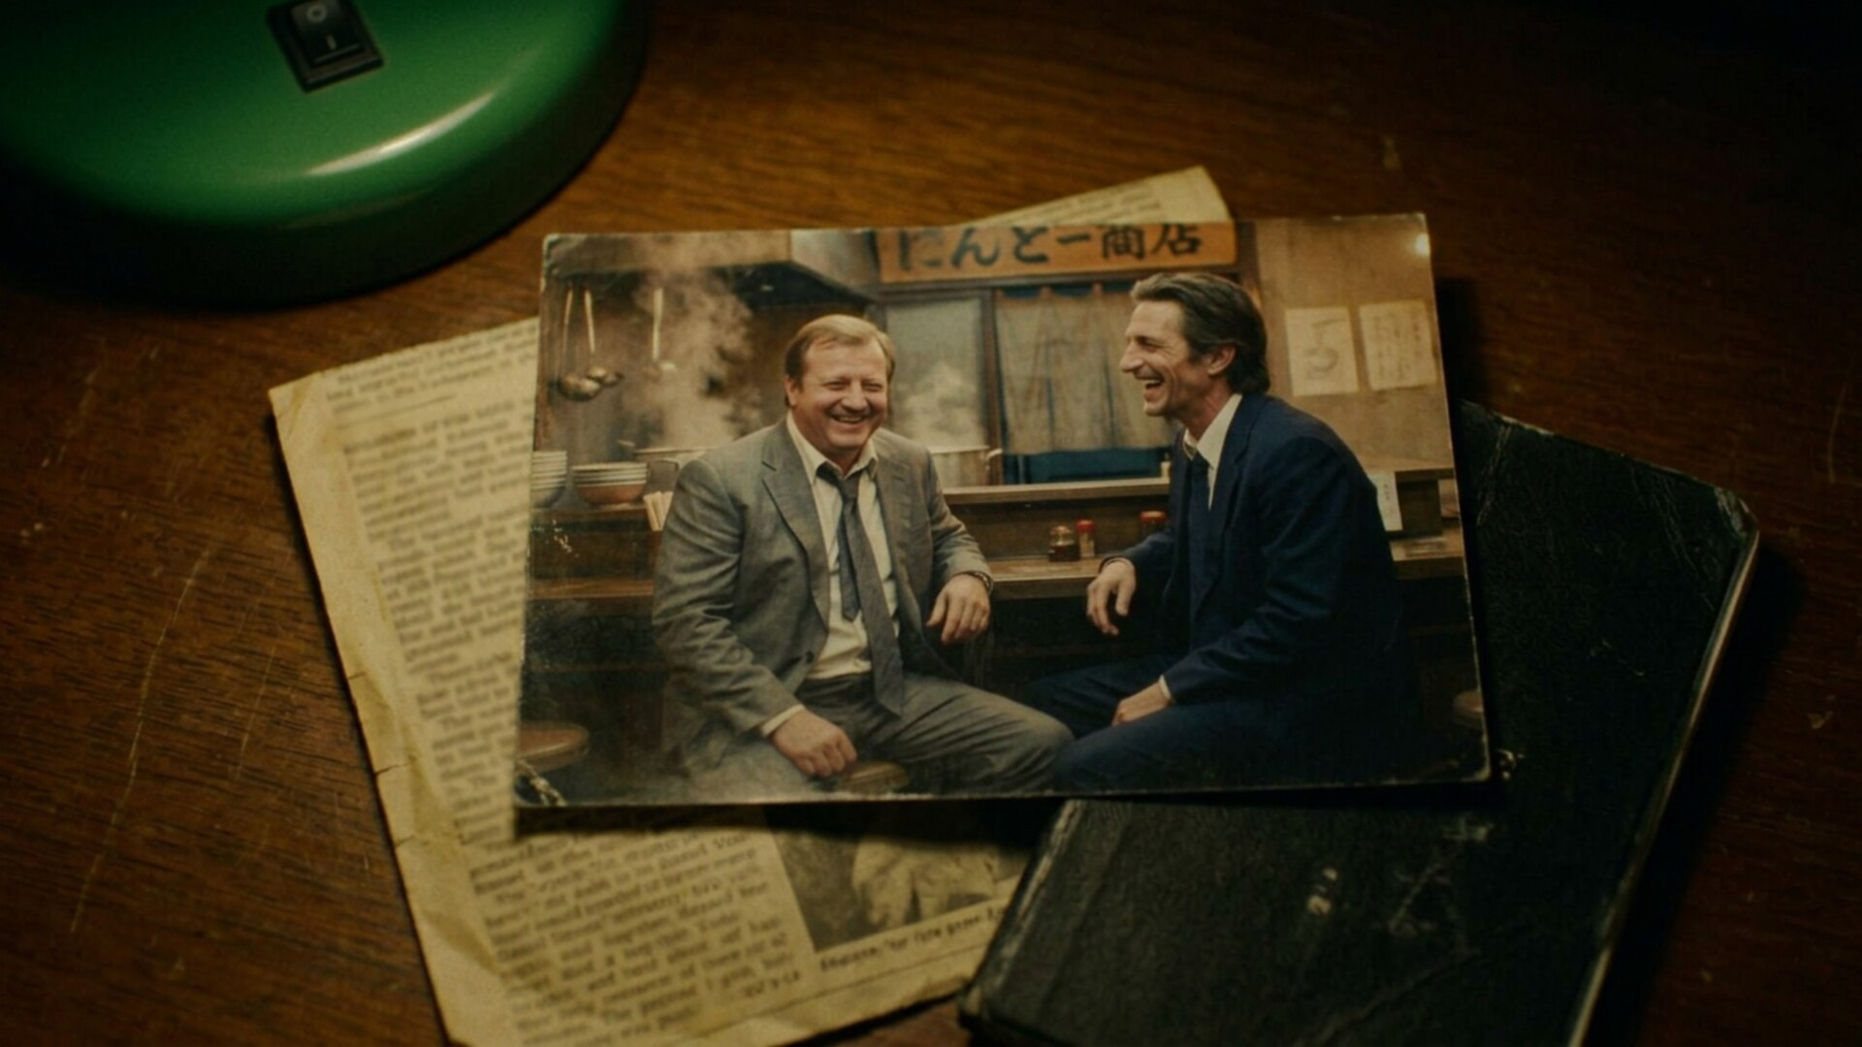
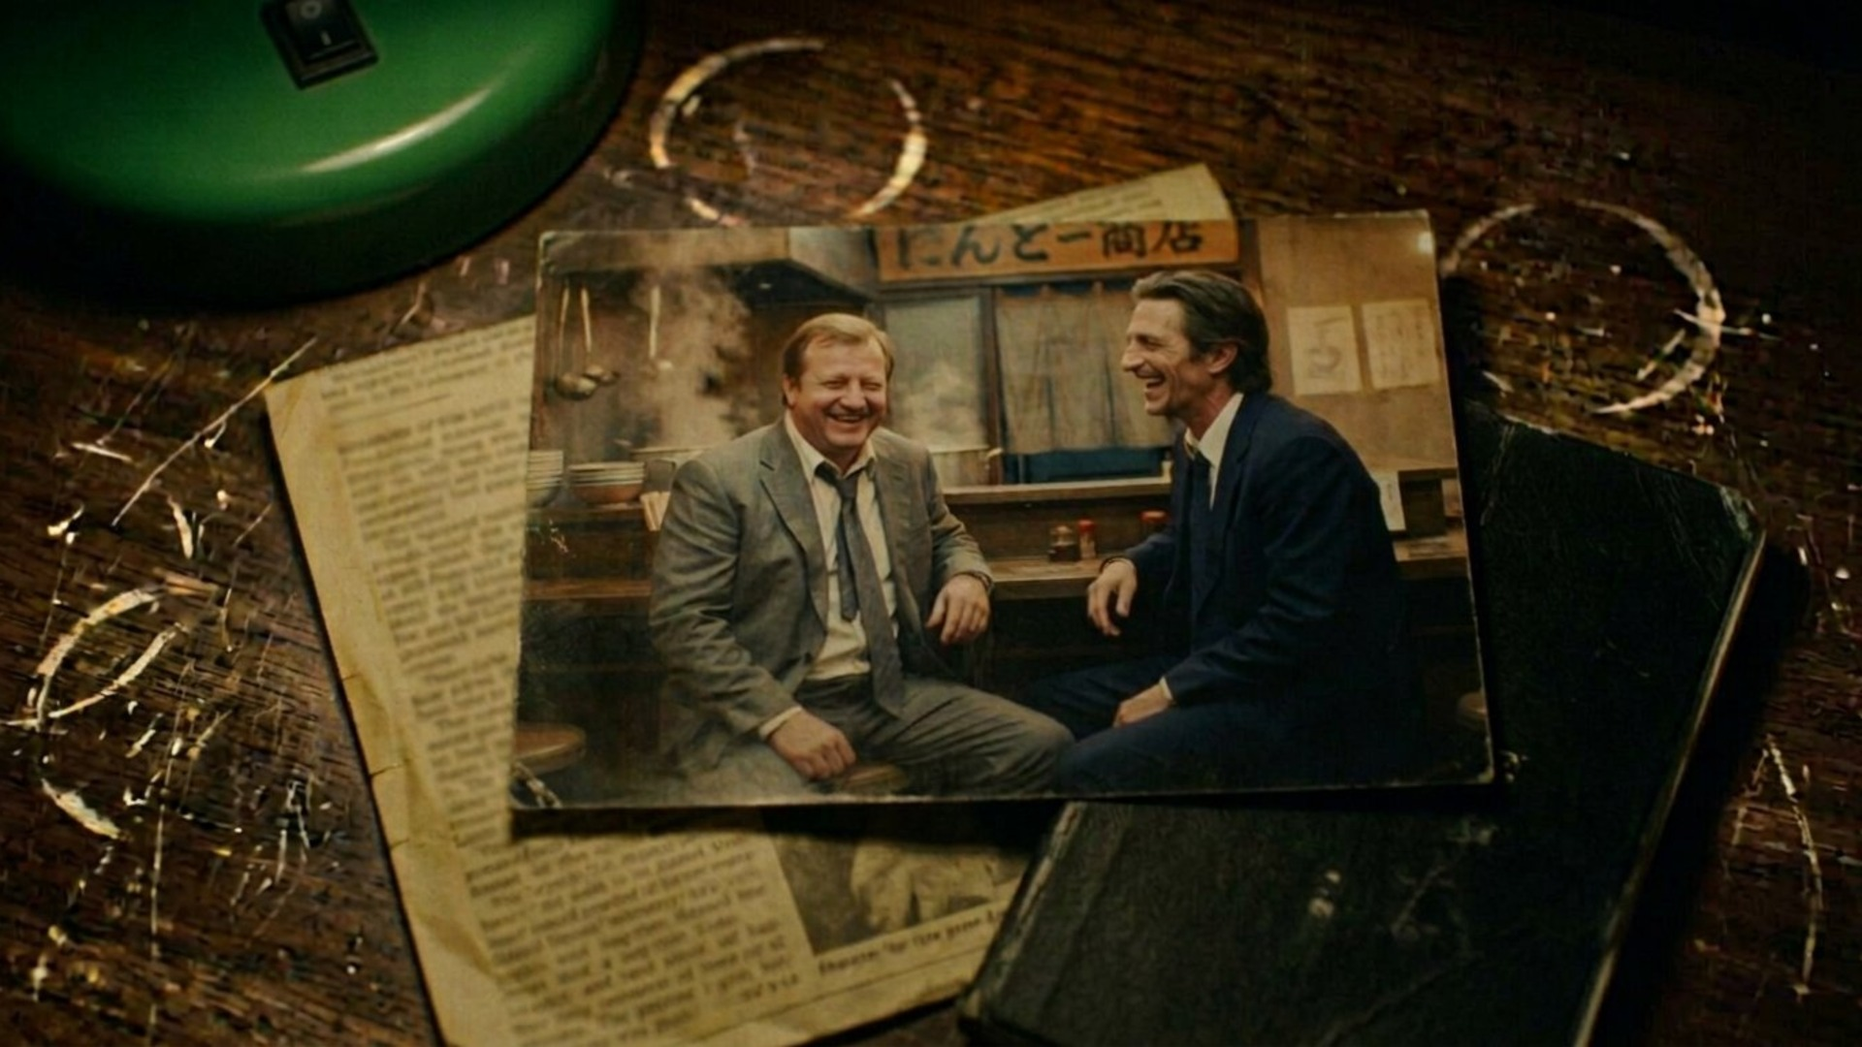
NEONOIRE: put the last two off-lock office frames on the wood, and audit what the guards cannot see
Every office check in verify-neonoire.mjs reads frame NOTES. A frame that was never queued never needed a note
changed, so its pixels were never re-examined -- which is how 'the queue is closed' came to mean something
narrower than 'the room is locked'. Auditing the five office frames the desk lock never retouched:

  s10/242 (10/244)  stairwell landing, no desk in frame          -- nothing to fix
  s21/193 (21/195)  stairwell and frosted door, no desk          -- nothing to fix
  s10/166 (10/168)  COMPLIANT: walnut top with cup rings, lamp at the left end, phone on the back edge
                    right of it, binders on the cupboard, CRT on its film at the right
  s11/244 (11/246)  OFF-LOCK: light honey-oak top, no ring marks -- retaken
  s11/167 (11/169)  OFF-LOCK: warm reddish wood, scratches instead of rings  -- retaken

Two calls, wood only, both frames edited rather than redrawn, because these two are a matched pair -- the
photograph in 169 lies on the clipping that IS the frame in 246, and 246's note has always said 'the black
notebook matches shot 169' -- and because 246 carries legible type: the headline and the DANIEL VOSS, 41 caption
were re-read at full size after the edit. Retaking one without the other would have moved the fault instead of
closing it.

Both are in officeLayoutRetakes now, so the guard that makes every rebuilt frame record its retake in its own note
covers them: 15 frames, twenty-two calls across three sessions. New review sheet:
[…]

diff --git a/README.md b/README.md
@@ -45,7 +45,7 @@ The **final feature screenplay** — 100 numbered scenes — is an editable work
   counting towards, and what a clock that runs a minute fast is doing in a police station are all left
   where the draft leaves them.
 
-**Latest session — Jack's office desk lock and the scene 6 card (1 October 2026):** the office desk had been redrawn smaller and in a different wood in every scene it appeared in, and the frame that had led the room (`s77/85`) was a mirror of it. Ten generations — the session budget — rebuilt **6/62, 11/245, 11/251, 10/166, 10/167, 18/191 and 77/87** in place: Ishida's card now slides across **dry laminate** with the spill kept as one pool around the crushed cup, and Jack takes the dusty box **out of the grey steel cupboard** under his window instead of off thin air (one action line in scene 11, authorised by the director; scene 14 already said the box lived there). **`scripts/neonoire/office-layout-look.mjs`** is the one lock every office frame now carries — the free-standing **1.60 m worn dark-walnut desk**, lamp at its left end, exactly one rotary phone at its right back corner, never mirrored, never a second table — with `s10/164` as the single room master and a `verify:neonoire` guard on all of it. A second session the same day spent ten further calls on the six frames pass 1 had queued (11/252, 77/88, 77/89, 18/283, 21/196, 21/271 — two of them also un-mirroring scene 21's room), so **`officeLayoutQueued` is empty and the guard asserts that it is**; no shot, path or dialogue moved. See the [ledger](docs/neonoire/passes/office-desk-lock-2026-10-01.md) and the [before/after review sheet](public/images/neonoire/reviews/office-desk-lock-2026-10-01.jpg).
+**Latest session — Jack's office desk lock and the scene 6 card (1 October 2026):** the office desk had been redrawn smaller and in a different wood in every scene it appeared in, and the frame that had led the room (`s77/85`) was a mirror of it. Ten generations — the session budget — rebuilt **6/62, 11/245, 11/251, 10/166, 10/167, 18/191 and 77/87** in place: Ishida's card now slides across **dry laminate** with the spill kept as one pool around the crushed cup, and Jack takes the dusty box **out of the grey steel cupboard** under his window instead of off thin air (one action line in scene 11, authorised by the director; scene 14 already said the box lived there). **`scripts/neonoire/office-layout-look.mjs`** is the one lock every office frame now carries — the free-standing **1.60 m worn dark-walnut desk**, lamp at its left end, exactly one rotary phone at its right back corner, never mirrored, never a second table — with `s10/164` as the single room master and a `verify:neonoire` guard on all of it. A second session the same day spent ten further calls on the six frames pass 1 had queued (11/252, 77/88, 77/89, 18/283, 21/196, 21/271 — two of them also un-mirroring scene 21's room), and a third pass put the last two off-lock office frames — the scene 11 desk inserts 246 and 169 — on the wood after an audit found that every guard reads notes rather than pixels. **`officeLayoutQueued` is empty and the guard asserts that it is**; 15 frames, twenty-two calls; no shot, path or dialogue moved. See the [ledger](docs/neonoire/passes/office-desk-lock-2026-10-01.md) and the [before/after review sheet](public/images/neonoire/reviews/office-desk-lock-2026-10-01.jpg).
 
 **Latest session — the remaining boards (30 September 2026):** two batches, **twelve of the twenty frames** the 30 September revision and story pass 2 still owed, generated under the cold-open fresh pass's rule — **the screenplay text and the character sheets are the only image references**, no scene master, no earlier frame. Installed at 1920×1080: **303** the young detective learning Ishida left a statement, **308** the red bird clip skittering under the shelf (the revision's first named close-up), **315** MOM pressed on the screen in the dark apartment, **316** Daniel's notebook squared to the third-floor door at grey dawn, **317** the plain envelope laid on the glass with Vera not looking at it, **318** the drawings dried flat on the storeroom futon, **319** the thumb on the unlit lighter — then the in-session retakes **309** (the phone the only light on her face) and **312** (the name written on the flyleaf, read at full size, after a first study substituted a placard), and **the plaza's three views 305/306/307 generated together as one sequence and released from `RETAKE PENDING`**: pale paving, real people crossing, no fountain, no hoarding, no gardener, the train passing and nothing below it moving. Nine frames remain — 313 re-composed again after its first call was refused by moderation and its second study's drawings read too small, plus 310, 311, 314, 320, 298, 299, 300 and 302 — ledgered in `scripts/neonoire/remaining-boards.mjs`; the builder and the verifier both read it, so a delivered frame is **Draft** with its pass note and an undelivered one keeps its honest placeholder. See the [ledger](docs/neonoire/passes/remaining-boards-1.md), [batch 1](public/images/neonoire/reviews/remaining-boards-pass-1.jpg) and [batch 2](public/images/neonoire/reviews/remaining-boards-pass-2.jpg) review sheets.
 

diff --git a/docs/neonoire/story-bible.md b/docs/neonoire/story-bible.md
@@ -386,7 +386,7 @@ turn.
 
 ---
 
-13. **Jack's office desk lock, and one scene 11 action line (1 October 2026, director-authorised).** The director asked for scene 6's card out of the tea puddle, scene 11's box taken from the cupboard rather than out of thin air, and an end to the office desk changing size between scenes. Root cause was procedural: the office was generated as a *chain* — each board told its frames to follow the last frame that existed (n10 followed s77/85, n11 followed n10, n21's coverage followed s21/194) — so the desk shrank and re-coloured five times and s77/85 mirrored the room. One prose lock now travels with every office frame (`scripts/neonoire/office-layout-look.mjs`): free-standing wide desk, 1.60 m × 0.75 m, worn dark walnut, banker's lamp at its left end, exactly one rotary telephone at its right back corner, grey steel cupboard under the window with nothing on top of it, never mirrored, never a second table; `s10/164-depends-whos-calling.jpg` is the single room master and `s77/85` was rebuilt to agree with it. Seven frames were regenerated inside the first session's ten-generation budget (6/62, 11/245, 11/251, 10/166, 10/167, 18/191, 77/87); a second session the same day spent ten more on the six frames that pass queued (11/252, 77/88, 77/89, 18/283, and scene 21's 196 and 271 — those two also un-mirrored, because scene 21's room was a mirror of the master), so the office queue is closed. One claim in the first pass's ledger is corrected here: scene 21's frames were never `RETAKE PENDING` — the 30 September pins are scene 20's 193 and 194 — and the verifier now asserts that as well as the empty queue. **Script change, one action line, scene 11:** "Jack stands on a chair and takes down a cardboard box from the top of a cupboard." becomes "Jack crouches at the grey steel cupboard under the window, pulls its door open and takes out a cardboard box he has kept behind the files." — the old blocking described a reach the room does not contain, and scene 14 already says the box lives *in* his cupboard. No dialogue, no voice line, no scene added, cut or renumbered. Scene 6 needed no script change: *across the wet table* stands, and a card is not a sponge. [Ledger, table of what changed and honest caveats](office-desk-lock-2026-10-01.md).
+13. **Jack's office desk lock, and one scene 11 action line (1 October 2026, director-authorised).** The director asked for scene 6's card out of the tea puddle, scene 11's box taken from the cupboard rather than out of thin air, and an end to the office desk changing size between scenes. Root cause was procedural: the office was generated as a *chain* — each board told its frames to follow the last frame that existed (n10 followed s77/85, n11 followed n10, n21's coverage followed s21/194) — so the desk shrank and re-coloured five times and s77/85 mirrored the room. One prose lock now travels with every office frame (`scripts/neonoire/office-layout-look.mjs`): free-standing wide desk, 1.60 m × 0.75 m, worn dark walnut, banker's lamp at its left end, exactly one rotary telephone at its right back corner, grey steel cupboard under the window with nothing on top of it, never mirrored, never a second table; `s10/164-depends-whos-calling.jpg` is the single room master and `s77/85` was rebuilt to agree with it. Seven frames were regenerated inside the first session's ten-generation budget (6/62, 11/245, 11/251, 10/166, 10/167, 18/191, 77/87); a second session the same day spent ten more on the six frames that pass queued (11/252, 77/88, 77/89, 18/283, and scene 21's 196 and 271 — those two also un-mirrored, because scene 21's room was a mirror of the master), so the office queue is closed; a third pass retaked the two scene-11 desk inserts (246, 169) that the queue had never listed, because the guards read notes and not pixels, and corrected two clauses of the lock that over-specified its own room master. One claim in the first pass's ledger is corrected here: scene 21's frames were never `RETAKE PENDING` — the 30 September pins are scene 20's 193 and 194 — and the verifier now asserts that as well as the empty queue. **Script change, one action line, scene 11:** "Jack stands on a chair and takes down a cardboard box from the top of a cupboard." becomes "Jack crouches at the grey steel cupboard under the window, pulls its door open and takes out a cardboard box he has kept behind the files." — the old blocking described a reach the room does not contain, and scene 14 already says the box lives *in* his cupboard. No dialogue, no voice line, no scene added, cut or renumbered. Scene 6 needed no script change: *across the wet table* stands, and a card is not a sponge. [Ledger, table of what changed and honest caveats](office-desk-lock-2026-10-01.md).
 
 ---
 

diff --git a/docs/neonoire/passes/office-desk-lock-2026-10-01.md b/docs/neonoire/passes/office-desk-lock-2026-10-01.md
@@ -6,7 +6,7 @@ changing sizes. redo the shots to keep consistancy."*
 
 Two named frames were wrong and one fault was systemic. All three are fixed here, and the systemic one now
 has a guard, because a note nobody can run is a note that gets re-broken next session. The office queue this
-ledger opened was worked off in a second session the same day — 13 frames rebuilt in twenty calls, ten per
+ledger opened was worked off in a second session the same day — **15 frames rebuilt in twenty-two calls**, ten per
 session — and its own closure is recorded under "What pass 1 left open" below, together with a correction of a
 claim this file made wrongly.
 
@@ -120,6 +120,52 @@ rot; now it is checked at the file level too.
 That is what "keep consistency" costs, and it is now cheap.
 
 [Queue review sheet: six pairs, before / after](../../../public/images/neonoire/reviews/office-desk-lock-queue-2026-10-01.jpg)
+
+## Pass 3 — the five frames the lock never touched (same day, two calls)
+
+The queue guard can only see the frames that were *listed*. Every check `verify:neonoire` runs on the office reads
+**notes**, and a frame that was never queued never needed a note changed, so its pixels were never re-examined. An
+audit of the five office frames the lock had not retouched is the difference between "the queue is closed" and
+"the room is locked", and it found:
+
+| Frame | Verdict on inspection |
+| --- | --- |
+| `s10/242-down-the-stairs.jpg` (10/244) | stairwell landing, **no desk in frame** — nothing to fix |
+| `s21/193-footsteps-on-the-stairs.jpg` (21/195) | stairwell with the frosted door, **no desk** — nothing to fix |
+| `s10/166-by-its-edges.jpg` (10/168) | **compliant**: walnut top with cup rings, lamp at the left end, phone on the back edge right of it, binders on the cupboard, CRT showing the film at right |
+| `s11/244-daniel-voss-41.jpg` (11/246) | **off-lock**: light honey-oak top, no cup rings — retaken |
+| `s11/167-two-men-laughing.jpg` (11/169) | **off-lock**: warm reddish wood, scratch field instead of ring marks — retaken |
+
+Both inserts were edited for the wood and nothing else, which is also how their legibility survived: 246's headline
+and its `DANIEL VOSS, 41` caption were re-read at full size after the edit. They are a matched pair — the
+photograph lies on the same clipping in 169 that *is* the frame in 246, and 246's note has always said "the black
+notebook matches shot 169" — so retaking one without the other would have moved the fault rather than closed it.
+
+### And the lock itself was wrong twice, about its own master
+
+While reading the frames against `s10/164`, two clauses in `officeLayoutLook` turned out to over-specify the
+picture they claim to describe: it pinned the telephone to the desk's **right back corner** when the master has it
+on the **back edge right of the lamp**, and it said the steel cupboard has binders and a folder stack at its right
+end *and* "NOTHING on top of it" — which contradicts itself, since the binders are on top. Twelve frames had been
+drawn to the words and none to the master, which is the same chain-of-copies fault the lock exists to end. The
+wording moved to match the master rather than fourteen frames moving to match the wording; the rule that actually
+bites is unchanged (`exactly ONE black rotary telephone`, and never anything on the cupboard that a scene has to
+reach up for, which is the scene 11 box). Recorded in `b983379`.
+
+### The near-miss worth repeating
+
+While pass 3 was being patched, a single missing `+` at a line break in the look module let automatic semicolon
+insertion **end the constant mid-sentence**. Six hundred and sixty-four characters — the entire RIGHT WALL, the door
+lettering, the room master — silently dropped out of every office note and every generation prompt, and every
+`frame.notes.includes(detail)` assertion in the verifier kept passing, because they all check *substrings of the
+surviving prefix*. One unrelated assertion caught it by accident. `verify:neonoire` now pins the lock's ending and
+length, not only its phrases, and was tested by deleting the `+` again:
+
+```
+AssertionError: the office lock ends mid-sentence — a line break in office-layout-look.mjs lost its + (ASI truncates the constant)
+```
+
+[Insert review sheet: two pairs, before / after](../../../public/images/neonoire/reviews/office-desk-lock-inserts-2026-10-01.jpg)
 
 ## Honest caveats
 

diff --git a/docs/neonoire/scenes/n11-jacks-office-later.md b/docs/neonoire/scenes/n11-jacks-office-later.md
@@ -18,7 +18,7 @@ One shot (169), **16:9, 1920×1080, full-bleed**. Daniel follows `s4/35-the-phot
 
 ## Continuity retake — 1 October 2026
 
-Three of this scene's four office frames were rebuilt on the same day the director flagged them: **245** (`s11/243-the-box.jpg`), **251** (`s11/249-the-line.jpg`) and **167**'s desk (`s10/165-face-up.jpg`, listed under scene 10). Before the retake, 245 had Jack lifting a box **off nothing** — arms up at head height, both feet on a chair, with nothing above him but ceiling — and 251 sat him at a narrow honey table that was neither the scene 10 desk nor the scene 77 one. The box now comes **out of the grey steel cupboard under the window**, which is what scene 14 already says ("Once in a box in his own cupboard"), and the screenplay's own blocking line was corrected to match — dialogue and the contents of the box are untouched. The desk is the wide 1.60 m walnut one in all three. **252** (`s11/250-the-lighter.jpg`) was held for the second session and is now redrawn: a hands-only insert whose warm desktop is the lamp pool, and the wood under it is the locked walnut with its pale cup rings rather than the old honey. All four office frames in this scene are on the lock.
+Three of this scene's four office frames were rebuilt on the same day the director flagged them: **245** (`s11/243-the-box.jpg`), **251** (`s11/249-the-line.jpg`) and **167**'s desk (`s10/165-face-up.jpg`, listed under scene 10). Before the retake, 245 had Jack lifting a box **off nothing** — arms up at head height, both feet on a chair, with nothing above him but ceiling — and 251 sat him at a narrow honey table that was neither the scene 10 desk nor the scene 77 one. The box now comes **out of the grey steel cupboard under the window**, which is what scene 14 already says ("Once in a box in his own cupboard"), and the screenplay's own blocking line was corrected to match — dialogue and the contents of the box are untouched. The desk is the wide 1.60 m walnut one in all three, and the scene's two desk-surface inserts (**246** `s11/244-daniel-voss-41.jpg` and **169** `s11/167-two-men-laughing.jpg`) were retaken onto the same lock later the same day, so all five office frames here are now on it. **252** (`s11/250-the-lighter.jpg`) was held for the second session and is now redrawn: a hands-only insert whose warm desktop is the lamp pool, and the wood under it is the locked walnut with its pale cup rings rather than the old honey. All four office frames in this scene are on the lock.
 
 ---
 
@@ -30,7 +30,7 @@ LIGHT: Practical night
 TIME: 8
 ID: neonoire-shot-169
 IMAGE: 167-two-men-laughing.jpg
-NOTE: The second attempt; the first made the two men look alike and was discarded. The clipping is shot 246, lettered. The box coming down is shot 245, which no longer needs a chair. The call to Ishida is shot 251. The lighter is shot 252.
+NOTE: The second attempt; the first made the two men look alike and was discarded. The clipping is shot 246, lettered. The box coming down is shot 245, which no longer needs a chair. The call to Ishida is shot 251. The lighter is shot 252. Retaken 1 October 2026 onto the desk lock: these two inserts are a matched pair and both had been left on the pre-lock wood while their notes already carried the lock, so the desktop is now the locked worn dark walnut with its pale cup rings, and the photograph, the clipping under it and the closed black notebook are untouched.
 
 ---
 
@@ -52,7 +52,7 @@ LIGHT: Practical night
 TIME: 6
 ID: neonoire-shot-246
 IMAGE: 244-daniel-voss-41.jpg
-NOTE: Coverage, shot 246. Daniel is held to s4/35-the-photograph.jpg, not to Jack. The headline AMERICAN INSURANCE INVESTIGATOR FOUND DEAD - POLICE RULE SUICIDE and the caption DANIEL VOSS, 41 are lettered and legible at full size. The black notebook matches shot 169.
+NOTE: Coverage, shot 246. Daniel is held to s4/35-the-photograph.jpg, not to Jack. The headline AMERICAN INSURANCE INVESTIGATOR FOUND DEAD - POLICE RULE SUICIDE and the caption DANIEL VOSS, 41 are lettered and legible at full size. The black notebook matches shot 169. Retaken 1 October 2026 onto the desk lock for the same reason as shot 169 — the wood, and only the wood: the honey-oak top became the locked worn dark walnut with its cup rings, and the lettering was re-checked at full size after the edit, both lines legible.
 
 ---
 

diff --git a/docs/neonoire/handoff.md b/docs/neonoire/handoff.md
@@ -25,7 +25,12 @@ frame, a third cup in a two-cup scene). `officeLayoutQueued` is empty and `verif
 frame can only be declared unfinished by naming it in the module and in its note. **Correction:** pass 1 wrote that
 those two scene-21 frames were `RETAKE PENDING`; they never were — the 30 September pins are scene **20**'s 193 and
 194 — and the verifier now asserts that too. Draw any future office frame on the lock and the master, never on the
-neighbour. Two stale sentences survived the queue because they sat in a board's **header prose**, above the first
+neighbour — and then **look at the frame**: a third pass audited the five office frames the queue never touched and
+found two scene-11 desk inserts (`s11/244-daniel-voss-41.jpg`, `s11/167-two-men-laughing.jpg`) still on the pre-lock
+wood, correctly noted and wrongly drawn, because every office guard reads notes. Both are now on the lock and in
+`officeLayoutRetakes` (15 frames, twenty-two calls). That audit also found the lock over-specifying its own master in
+two clauses (the phone's corner, and "nothing on top" of a cupboard whose binders *are* on top) — the wording was
+corrected to match `s10/164` rather than the other way round. Two stale sentences survived the queue because they sat in a board's **header prose**, above the first
 `---`, which never reaches `frame.notes` — scene 77 promising 88/89 were queued, scene 11 calling 252 held and
 queued; both are fixed, and `verify:neonoire` now reads the six office board files for exactly that. Scene 21's
 coat is likewise resolved: nothing was dropped, the charcoal overcoat is **worn** in both frames (the 29 September
